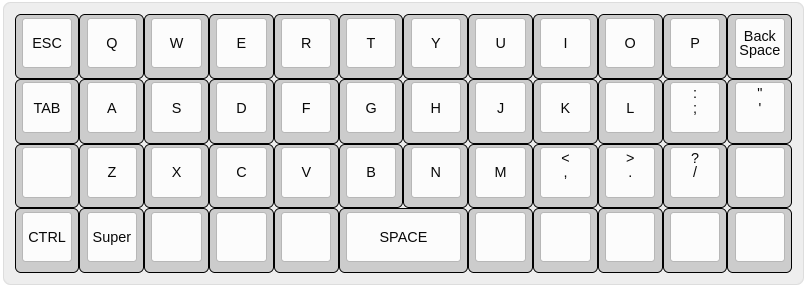
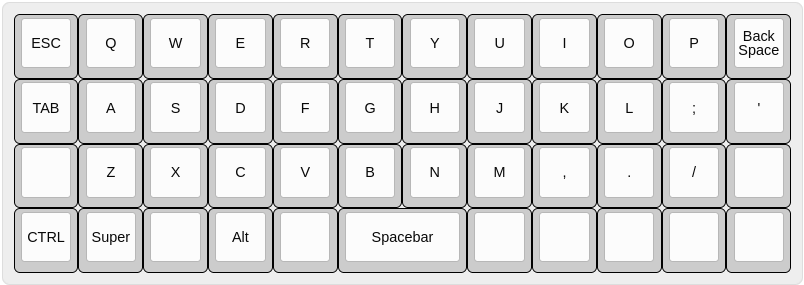
new images and text

diff --git a/README.md b/README.md
@@ -15,15 +15,22 @@ I have been fiddling with my 40% layout ever since i got my keyboard, and I beli
 The reason I bought a 40% was that i wanted the perfect keyboard, by that I mean the smallest possible, yet *efficient*, keyboard. Since i wanted a tiny footprint I went with an ortholinear 1 unit layout, ortholinear doesn't automatically mean smaller, since you can aruge that a keyboard's size is more accurately defined by its number of keys. I personally chose an ortholinear keyboard since i value the grid and smaller footprint. If we messure a keyboard by its grid footprint, I'd argue that a 4x12 keyboard is the perfect keyboard based on the following requirements:
 
 * The letters take up a 3x10 grid
-* The ESC and backspace key is on each side
-* A centered spacebar on the bottom row
+* The ESC and Backspace key is on each side
+* The CTRL, Super and Alt key spaced in the bottom left
+* A centered Spacebar on the bottom row
 
 ![Initial keyboard](/images/keyboard-layout-initial.png)
 
-## Reducing capitalization to on key
-Coming from something like a >68 key keyboard I think it would be a natural reaction to place Right and Left Shift under TAB and apostrophe ('). I never liked how a >68 key keyboard did capitalization, three keys for one action. I hate capslock, since it's literally just another key held down permanently, but I think it ended up on the >68 layout because of the flawed way the Shift keys are placed. If we assume that one uses the pinky to press Right and Left Shift then this is what the homerow lookslike when pressed:
+## Reducing capitalization to one key
+Coming from something like a >68 key keyboard I think it would be a natural reaction to place Right and Left Shift under TAB and apostrophe ('). I never liked how a >68 key keyboard did capitalization, three keys for one action. I hate capslock, since it's literally just another key held down permanently, but I think it ended up on the >68 layout because of the flawed way the Shift keys are placed. If we assume that one uses the pinky to press Right and Left Shift then this is what the homerow looks like when pressed:
 
 ![Shiftkey homerow](/images/keyboard-layout-shiftkey-homerow.png)
+
+Why two Shift keys in the first place? Well I'd aruge that's because when you press Left Shift you can no longer use your left pinky to capitalize Q, A or Z, this goes for Right Shift as well. I think this is an efficiency problem, but also that it's the reason why we have two Shift key and Capslock, since holding down Right or Left Shift permanently isn't feasible.
+
+One of my problems with the >68 key keyboard is that I never really used my right thumb, and concluding that 3 capitazlization keys comes from the flaw of using them with homerow fingers I found it natural use Shift with my right thumb, like in the image below. This solves capitalizing Q, A and Z with the left pinky and P, (:) and (?) with the right pinky, magically enough this also solves Capslock since the right thumb isn't used for anything else, and can hold down Shift permanently.
+
+![]
 
 ## Enter's position on the 4x12
 My first instinct was to rebind apostrophe (') and have the Enter under Backspace, but that wasn't comfortable for typing. Then i realized that one of the inefficiencies that i didn't like about 108 key keyboard was that I never really used my right thumb, since i Space with my left. That's how
